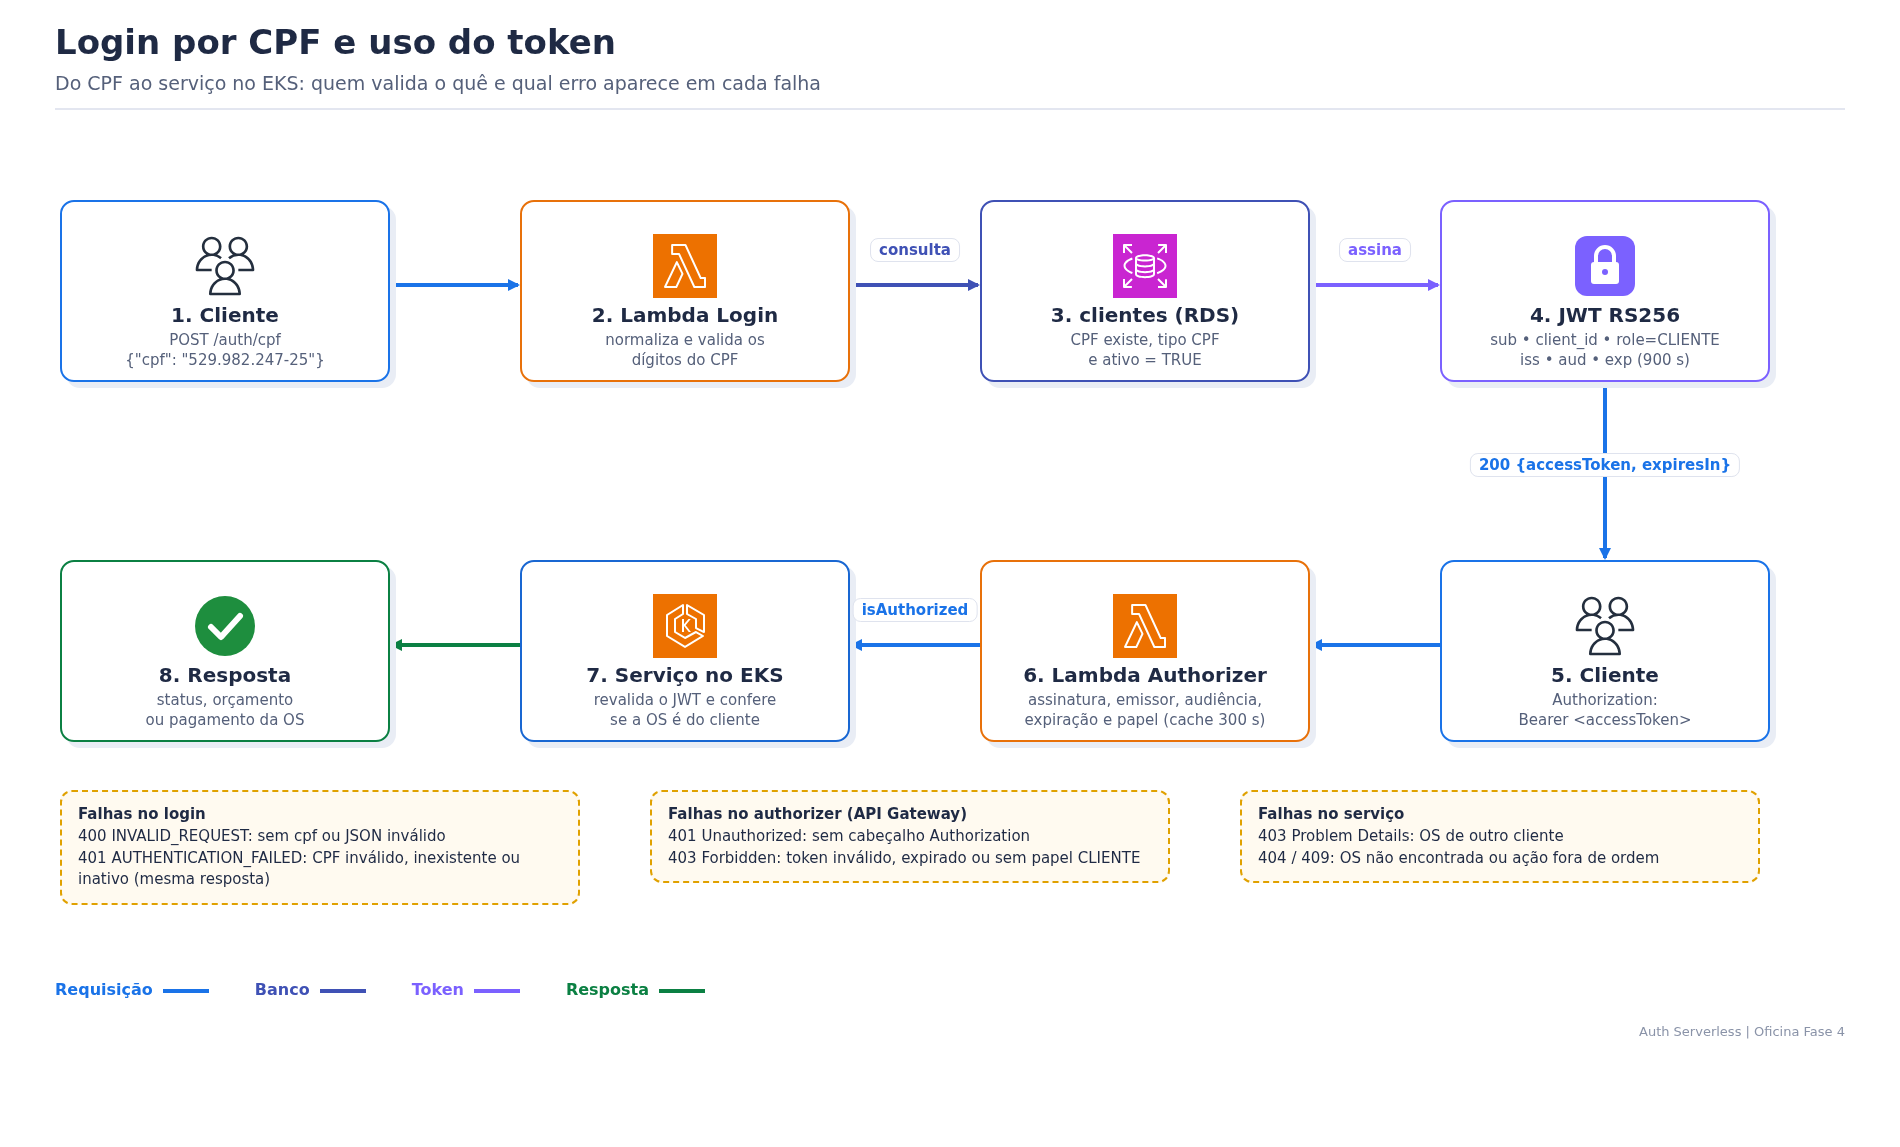
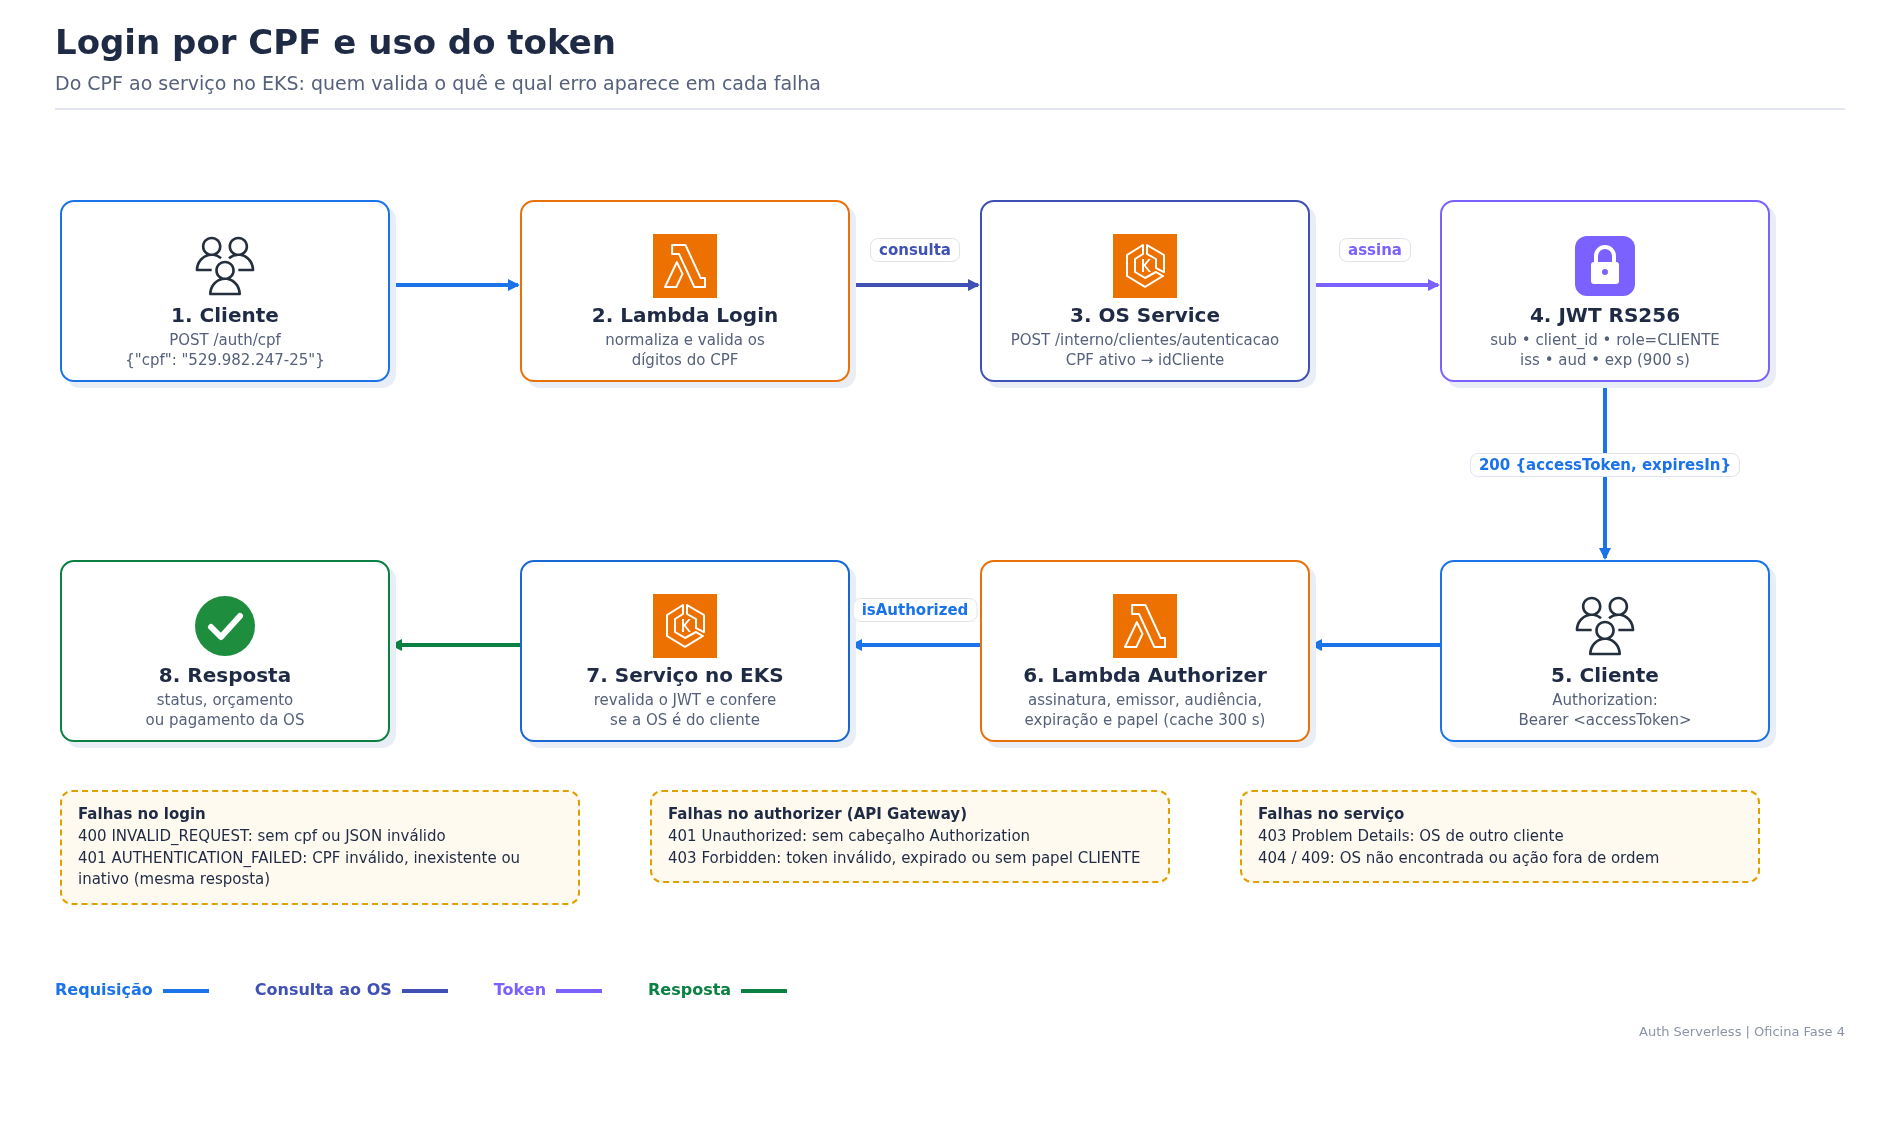
Login por CPF consulta o cliente no OS Service por REST: Auth sem acesso ao banco do OS

Changed region(s): [[0.5279, 0.1831, 0.6521, 0.3357], [0.1553, 0.8544, 0.4037, 0.8849]]

diff --git a/src/test/java/br/com/oficina/auth/adapter/out/http/OsServiceClientRepositoryTest.java b/src/test/java/br/com/oficina/auth/adapter/out/http/OsServiceClientRepositoryTest.java
@@ -1,0 +1,108 @@
+package br.com.oficina.auth.adapter.out.http;
+
+import static org.junit.jupiter.api.Assertions.assertEquals;
+import static org.junit.jupiter.api.Assertions.assertThrows;
+import static org.junit.jupiter.api.Assertions.assertTrue;
+
+import br.com.oficina.auth.config.AuthConfig;
+import br.com.oficina.auth.domain.Cpf;
+import com.sun.net.httpserver.HttpServer;
+import java.io.IOException;
+import java.net.InetSocketAddress;
+import java.nio.charset.StandardCharsets;
+import java.util.Optional;
+import java.util.concurrent.atomic.AtomicReference;
+import org.junit.jupiter.api.AfterEach;
+import org.junit.jupiter.api.Test;
+
+class OsServiceClientRepositoryTest {
+
+  private static final String API_KEY = "chave-tecnica-com-mais-de-32-caracteres";
+  private static final Cpf CPF = Cpf.parse("529.982.247-25");
+
+  private final AtomicReference<String> receivedKey = new AtomicReference<>();
+  private final AtomicReference<String> receivedBody = new AtomicReference<>();
+  private HttpServer server;
+
+  @AfterEach
+  void stop() {
+    if (server != null) {
+      server.stop(0);
+    }
+  }
+
+  @Test
+  void activeClientReturnsIdAndSendsKeyAndCpf() throws IOException {
+    String baseUrl = serve(200, "{\"idCliente\":42}");
+
+    Optional<Long> id = repository(baseUrl).findActiveClientId(CPF);
+
+    assertEquals(Optional.of(42L), id);
+    assertEquals(API_KEY, receivedKey.get());
+    assertEquals("{\"cpf\":\"52998224725\"}", receivedBody.get());
+  }
+
+  @Test
+  void notEligibleClientReturnsEmpty() throws IOException {
+    assertTrue(repository(serve(404, "")).findActiveClientId(CPF).isEmpty());
+  }
+
+  @Test
+  void unexpectedStatusFails() throws IOException {
+    var repository = repository(serve(401, ""));
+
+    assertThrows(IllegalStateException.class, () -> repository.findActiveClientId(CPF));
+  }
+
+  @Test
+  void responseWithoutIdFails() throws IOException {
+    var repository = repository(serve(200, "{}"));
+
+    assertThrows(IllegalStateException.class, () -> repository.findActiveClientId(CPF));
+  }
+
+  @Test
+  void invalidJsonFails() throws IOException {
+    var repository = repository(serve(200, "nao-json"));
+
+    assertThrows(IllegalStateException.class, () -> repository.findActiveClientId(CPF));
+  }
+
+  @Test
+  void missingBaseUrlFails() {
+    var repository = repository("");
+
+    assertThrows(IllegalStateException.class, () -> repository.findActiveClientId(CPF));
+  }
+
+  @Test
+  void unreachableServiceFails() {
+    var repository = repository("http://127.0.0.1:9");
+
+    assertThrows(RuntimeException.class, () -> repository.findActiveClientId(CPF));
+  }
+
+  private OsServiceClientRepository repository(String baseUrl) {
+    return new OsServiceClientRepository(
+        new AuthConfig(baseUrl, API_KEY, null, null, "issuer", "audience", 900));
+  }
+
+  private String serve(int status, String body) throws IOException {
+    server = HttpServer.create(new InetSocketAddress("127.0.0.1", 0), 0);
+    server.createContext(
+        OsServiceClientRepository.PATH,
+        exchange -> {
+          receivedKey.set(exchange.getRequestHeaders().getFirst("X-Api-Key"));
+          receivedBody.set(
+              new String(exchange.getRequestBody().readAllBytes(), StandardCharsets.UTF_8));
+          byte[] bytes = body.getBytes(StandardCharsets.UTF_8);
+          exchange.sendResponseHeaders(status, bytes.length == 0 ? -1 : bytes.length);
+          if (bytes.length > 0) {
+            exchange.getResponseBody().write(bytes);
+          }
+          exchange.close();
+        });
+    server.start();
+    return "http://127.0.0.1:" + server.getAddress().getPort();
+  }
+}

diff --git a/src/main/java/br/com/oficina/auth/adapter/out/http/OsServiceClientRepository.java b/src/main/java/br/com/oficina/auth/adapter/out/http/OsServiceClientRepository.java
@@ -1,0 +1,95 @@
+package br.com.oficina.auth.adapter.out.http;
+
+import br.com.oficina.auth.application.port.out.ClientRepositoryPort;
+import br.com.oficina.auth.config.AuthConfig;
+import br.com.oficina.auth.domain.Cpf;
+import com.fasterxml.jackson.core.JsonProcessingException;
+import com.fasterxml.jackson.databind.JsonNode;
+import com.fasterxml.jackson.databind.ObjectMapper;
+import java.io.IOException;
+import java.io.UncheckedIOException;
+import java.net.URI;
+import java.net.http.HttpClient;
+import java.net.http.HttpRequest;
+import java.net.http.HttpResponse;
+import java.time.Duration;
+import java.util.Map;
+import java.util.Optional;
+
+/**
+ * Consulta o cliente no OS Service pela rota interna {@code POST /interno/clientes/autenticacao}. O
+ * Auth não acessa o banco do OS Service: cada serviço só lê o próprio banco.
+ */
+public final class OsServiceClientRepository implements ClientRepositoryPort {
+
+  static final String PATH = "/interno/clientes/autenticacao";
+  private static final ObjectMapper JSON = new ObjectMapper();
+  private static final Duration CONNECT_TIMEOUT = Duration.ofSeconds(3);
+  private static final Duration REQUEST_TIMEOUT = Duration.ofSeconds(5);
+
+  private final AuthConfig config;
+  private final HttpClient http;
+
+  public OsServiceClientRepository(AuthConfig config) {
+    this(config, HttpClient.newBuilder().connectTimeout(CONNECT_TIMEOUT).build());
+  }
+
+  public OsServiceClientRepository(AuthConfig config, HttpClient http) {
+    this.config = config;
+    this.http = http;
+  }
+
+  @Override
+  public Optional<Long> findActiveClientId(Cpf cpf) {
+    String baseUrl = config.osServiceBaseUrl();
+    if (baseUrl == null || baseUrl.isBlank()) {
+      throw new IllegalStateException("OS_SERVICE_BASE_URL não configurada");
+    }
+    HttpRequest request =
+        HttpRequest.newBuilder(URI.create(baseUrl + PATH))
+            .timeout(REQUEST_TIMEOUT)
+            .header("Content-Type", "application/json")
+            .header("X-Api-Key", config.internalApiKey())
+            .POST(HttpRequest.BodyPublishers.ofString(body(cpf)))
+            .build();
+    HttpResponse<String> response = execute(request);
+    return switch (response.statusCode()) {
+      case 200 -> Optional.of(clientId(response.body()));
+      case 404 -> Optional.empty();
+      default ->
+          throw new IllegalStateException(
+              "OS Service respondeu status " + response.statusCode() + " na consulta do cliente");
+    };
+  }
+
+  private static String body(Cpf cpf) {
+    try {
+      return JSON.writeValueAsString(Map.of("cpf", cpf.value()));
+    } catch (JsonProcessingException exception) {
+      throw new IllegalStateException("Falha ao montar a consulta do cliente", exception);
+    }
+  }
+
+  private static long clientId(String body) {
+    try {
+      JsonNode id = JSON.readTree(body).get("idCliente");
+      if (id == null || !id.canConvertToLong()) {
+        throw new IllegalStateException("Resposta do OS Service sem idCliente");
+      }
+      return id.asLong();
+    } catch (JsonProcessingException exception) {
+      throw new IllegalStateException("Resposta do OS Service inválida", exception);
+    }
+  }
+
+  private HttpResponse<String> execute(HttpRequest request) {
+    try {
+      return http.send(request, HttpResponse.BodyHandlers.ofString());
+    } catch (IOException exception) {
+      throw new UncheckedIOException(exception);
+    } catch (InterruptedException exception) {
+      Thread.currentThread().interrupt();
+      throw new IllegalStateException("Consulta do cliente interrompida", exception);
+    }
+  }
+}

diff --git a/src/main/java/br/com/oficina/auth/config/AuthConfig.java b/src/main/java/br/com/oficina/auth/config/AuthConfig.java
@@ -1,9 +1,8 @@
 package br.com.oficina.auth.config;
 
 public record AuthConfig(
-    String dbUrl,
-    String dbUser,
-    String dbPassword,
+    String osServiceBaseUrl,
+    String internalApiKey,
     String jwtPrivateKey,
     String jwtPublicKey,
     String jwtIssuer,
@@ -12,9 +11,8 @@ public record AuthConfig(
 
   public static AuthConfig loginFromEnvironment() {
     return new AuthConfig(
-        required("DB_URL"),
-        required("DB_USER"),
-        required("DB_PASSWORD"),
+        valueOrDefault("OS_SERVICE_BASE_URL", ""),
+        required("INTERNAL_API_KEY"),
         required("JWT_PRIVATE_KEY"),
         required("JWT_PUBLIC_KEY"),
         valueOrDefault("JWT_ISSUER", "oficina-auth-serverless"),
@@ -24,7 +22,6 @@ public record AuthConfig(
 
   public static AuthConfig authorizerFromEnvironment() {
     return new AuthConfig(
-        null,
         null,
         null,
         null,

diff --git a/src/main/java/br/com/oficina/auth/infrastructure/config/AuthComposition.java b/src/main/java/br/com/oficina/auth/infrastructure/config/AuthComposition.java
@@ -1,6 +1,6 @@
 package br.com.oficina.auth.infrastructure.config;
 
-import br.com.oficina.auth.adapter.out.jdbc.JdbcClientRepository;
+import br.com.oficina.auth.adapter.out.http.OsServiceClientRepository;
 import br.com.oficina.auth.adapter.out.jwt.JwtTokenAdapter;
 import br.com.oficina.auth.adapter.out.newrelic.NewRelicAccessLogAdapter;
 import br.com.oficina.auth.adapter.out.ses.SesNotificationAdapter;
@@ -33,7 +33,7 @@ public final class AuthComposition {
     JwtTokenAdapter tokens = new JwtTokenAdapter(config);
     return new LoginDependencies(
         new AuthenticateClientUseCase(
-            new JdbcClientRepository(config), tokens, config.jwtTtlSeconds()),
+            new OsServiceClientRepository(config), tokens, config.jwtTtlSeconds()),
         Telemetry.fromEnvironment());
   }
 

diff --git a/src/main/java/br/com/oficina/auth/infrastructure/ClienteRepository.java b/src/main/java/br/com/oficina/auth/infrastructure/ClienteRepository.java
@@ -1,6 +1,6 @@
 package br.com.oficina.auth.infrastructure;
 
-import br.com.oficina.auth.adapter.out.jdbc.JdbcClientRepository;
+import br.com.oficina.auth.adapter.out.http.OsServiceClientRepository;
 import br.com.oficina.auth.application.ClienteDirectory;
 import br.com.oficina.auth.config.AuthConfig;
 import br.com.oficina.auth.domain.Cpf;
@@ -8,10 +8,10 @@ import java.util.Optional;
 
 public final class ClienteRepository implements ClienteDirectory {
 
-  private final JdbcClientRepository delegate;
+  private final OsServiceClientRepository delegate;
 
   public ClienteRepository(AuthConfig config) {
-    this.delegate = new JdbcClientRepository(config);
+    this.delegate = new OsServiceClientRepository(config);
   }
 
   @Override

diff --git a/src/test/java/br/com/oficina/auth/infrastructure/JwtServiceTest.java b/src/test/java/br/com/oficina/auth/infrastructure/JwtServiceTest.java
@@ -19,7 +19,6 @@ class JwtServiceTest {
         new AuthConfig(
             null,
             null,
-            null,
             encoded(pair.getPrivate()),
             encoded(pair.getPublic()),
             "oficina-auth-serverless",

diff --git a/src/test/java/br/com/oficina/auth/support/TestKeys.java b/src/test/java/br/com/oficina/auth/support/TestKeys.java
@@ -24,7 +24,6 @@ public final class TestKeys {
     return new AuthConfig(
         null,
         null,
-        null,
         encoded(pair.getPrivate()),
         encoded(pair.getPublic()),
         issuer,

diff --git a/README.md b/README.md
@@ -19,7 +19,7 @@ Porta de entrada pública da Oficina: **login do cliente por CPF**, **Lambda Aut
 | # | Requisito | Onde no código |
 |---|---|---|
 | RF1 | Login por CPF com ou sem máscara, com validação dos dígitos | `domain/Cpf.java`, `handler/CpfAuthenticationHandler.java` |
-| RF2 | Só cliente ativo com documento CPF autentica | `adapter/out/jdbc/JdbcClientRepository.java` |
+| RF2 | Só cliente ativo com documento CPF autentica (consulta ao OS Service, sem acesso ao banco) | `adapter/out/http/OsServiceClientRepository.java` |
 | RF3 | Token JWT RS256 com `sub`, `client_id`, `role=CLIENTE`, `iss`, `aud`, `exp`, `jti` | `adapter/out/jwt/JwtTokenAdapter.java` |
 | RF4 | Rotas do cliente protegidas pelo authorizer | `handler/JwtAuthorizerHandler.java`, `apigateway.tf` |
 | RF5 | Rotas do cliente repassadas ao OS Service e ao Orçamento e Pagamento | `apigateway.tf` (`backend_route_keys`, `orcamento_pagamento_route_keys`) |
@@ -46,7 +46,7 @@ Porta de entrada pública da Oficina: **login do cliente por CPF**, **Lambda Aut
 |---|---|
 | Código | Java 21, Maven Wrapper, AWS Lambda Java Core/Events, Jackson |
 | Segurança | JJWT 0.12 (RS256), Lambda Authorizer REQUEST (payload 2.0, respostas simples) |
-| AWS | API Gateway HTTP API v2, Lambda `java21` arm64, RDS PostgreSQL (JDBC), SNS, SQS (DLQ), SES, CloudWatch Logs |
+| AWS | API Gateway HTTP API v2, Lambda `java21` arm64, SNS, SQS (DLQ), SES, CloudWatch Logs; `java.net.http.HttpClient` para consultar o OS Service |
 | Infraestrutura | Terraform + HCP Terraform (workspaces `homolog` e `production`) |
 | Qualidade | JUnit 5, ArchUnit, Spotless, TFLint, Trivy, Gitleaks, actionlint |
 | Observabilidade | logs JSON, camada New Relic Java (ARM64), log forwarder do API Gateway para o New Relic |
@@ -57,7 +57,7 @@ Porta de entrada pública da Oficina: **login do cliente por CPF**, **Lambda Aut
 
 | Lambda | Handler | Memória / timeout | Função |
 |---|---|---|---|
-| `oficina-auth-<env>-login` | `CpfAuthenticationHandler` | 1024 MB / 15 s (na VPC) | valida o CPF, consulta `clientes` e emite o JWT |
+| `oficina-auth-<env>-login` | `CpfAuthenticationHandler` | 1024 MB / 15 s (na VPC) | valida o CPF, consulta o cliente no OS Service por REST e emite o JWT |
 | `oficina-auth-<env>-authorizer` | `JwtAuthorizerHandler` | 1024 MB / 10 s | valida o token e devolve `isAuthorized` com `subject`, `clientId`, `role`, `requestId` |
 | `oficina-auth-<env>-notification-ingress` | `NotificationIngressHandler` | 512 MB / 18 s | valida a chave e o payload e publica no SNS |
 | `oficina-auth-<env>-notification-delivery` | `NotificationDeliveryHandler` | 384 MB / 30 s | entrega por SES ou só registra (modo `log`) |
@@ -113,14 +113,23 @@ Troque `<CPF de um cliente ativo>` pelo CPF cadastrado no OS Service, sem os sin
 
 ## 6. Banco de dados
 
-O Auth não tem banco próprio. A Lambda Login **só lê** a tabela `clientes` do RDS PostgreSQL do OS Service (provisionado pelo [oficina-database-infra](https://github.com/tiagomiele/oficina-database-infra)):
+O Auth **não tem banco e não acessa o banco de nenhum serviço**. Para saber se o CPF é de um cliente ativo, a Lambda Login chama a rota interna do OS Service, que é o dono da tabela `clientes`:
 
-```sql
-SELECT id_cliente FROM clientes
- WHERE documento_normalizado = ? AND tipo_documento = 'CPF' AND ativo = TRUE;
+```http
+POST <backend_base_url>/interno/clientes/autenticacao
+X-Api-Key: <notification_api_key>
+Content-Type: application/json
+
+{"cpf":"52998224725"}
 ```
 
-Para ver os clientes cadastrados, siga a seção de acesso ao banco do OS Service ([README](https://github.com/tiagomiele/oficina-os-service)).
+| Resposta do OS | Resultado do login |
+|---|---|
+| `200 {"idCliente": 1}` | emite o JWT com `sub = 1` |
+| `404` (CPF inválido, inexistente ou inativo) | `401 AUTHENTICATION_FAILED` |
+| outro status, timeout ou `backend_base_url` vazia | `500 INTERNAL_ERROR` |
+
+Código: [`OsServiceClientRepository`](src/main/java/br/com/oficina/auth/adapter/out/http/OsServiceClientRepository.java). Para ver os clientes cadastrados, siga a seção de acesso ao banco do [Database Infra](https://github.com/tiagomiele/oficina-database-infra#readme).
 
 ## 7. Executar e validar localmente
 
@@ -142,13 +151,12 @@ Exemplos: [homolog](environments/homolog.tfvars.example) e [production](environm
 
 | Variável Terraform | Uso |
 |---|---|
-| `db_url`, `db_user`, `db_password` (sensíveis) | conexão JDBC da Lambda Login |
 | `jwt_private_key` (sensível) | assinatura do token (só Login) |
 | `jwt_public_key` | authorizer; a mesma chave vai para `SERVERLESS_JWT_PUBLIC_KEY` dos serviços |
 | `jwt_issuer` / `jwt_audience` / `jwt_ttl_seconds` | `oficina-auth-serverless` / `oficina-backend` / `900` |
-| `private_subnet_ids`, `lambda_security_group_id` | VPC da Lambda Login (acesso ao RDS) |
-| `backend_base_url`, `orcamento_pagamento_base_url` | Load Balancers do EKS; nulas = só `/auth/cpf` |
-| `notification_api_key` (sensível), `notification_delivery_mode` | chave técnica; `log` ou `ses` |
+| `private_subnet_ids`, `lambda_security_group_id` | VPC da Lambda Login (saída pela NAT) |
+| `backend_base_url`, `orcamento_pagamento_base_url` | Load Balancers do EKS; nulas = só `/auth/cpf`. `backend_base_url` também vira `OS_SERVICE_BASE_URL` da Lambda Login |
+| `notification_api_key` (sensível), `notification_delivery_mode` | chave técnica compartilhada com o OS Service (notificações e `X-Api-Key` da consulta do cliente, `INTERNAL_API_KEY`); `log` ou `ses` |
 | `newrelic_instrumentation_enabled`, `newrelic_license_key`, `newrelic_account_id`, `newrelic_log_forwarding_enabled` | observabilidade |
 
 ## 9. CI/CD
